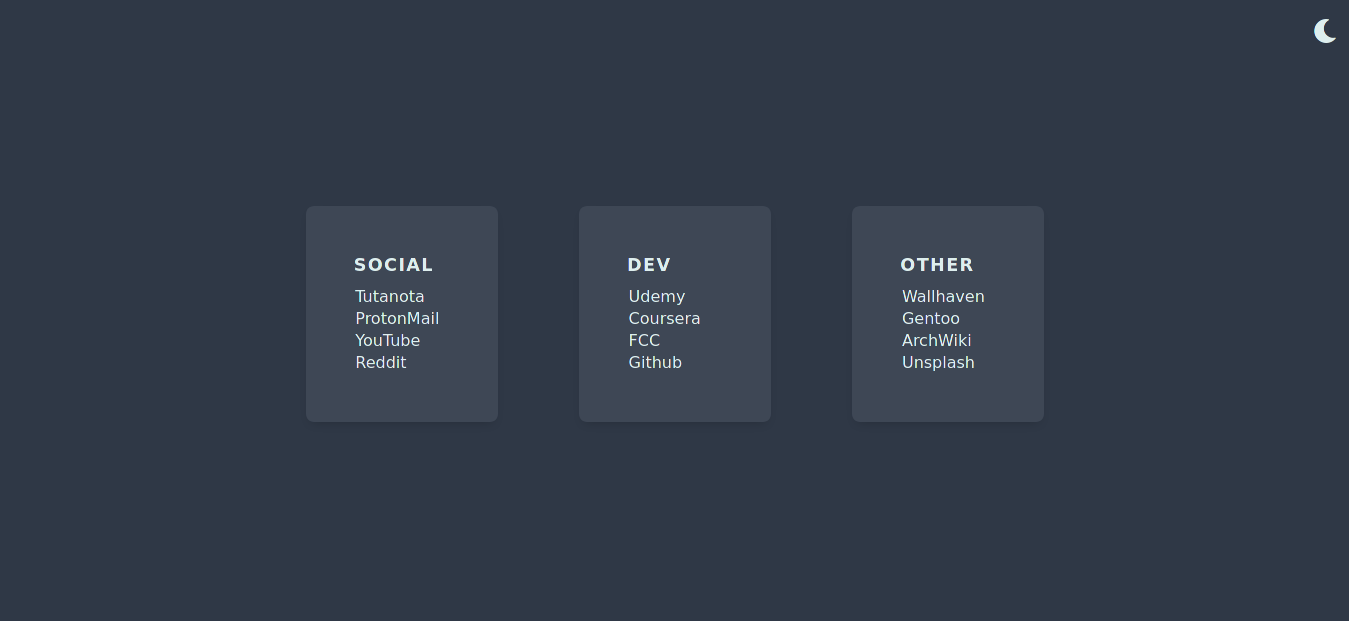
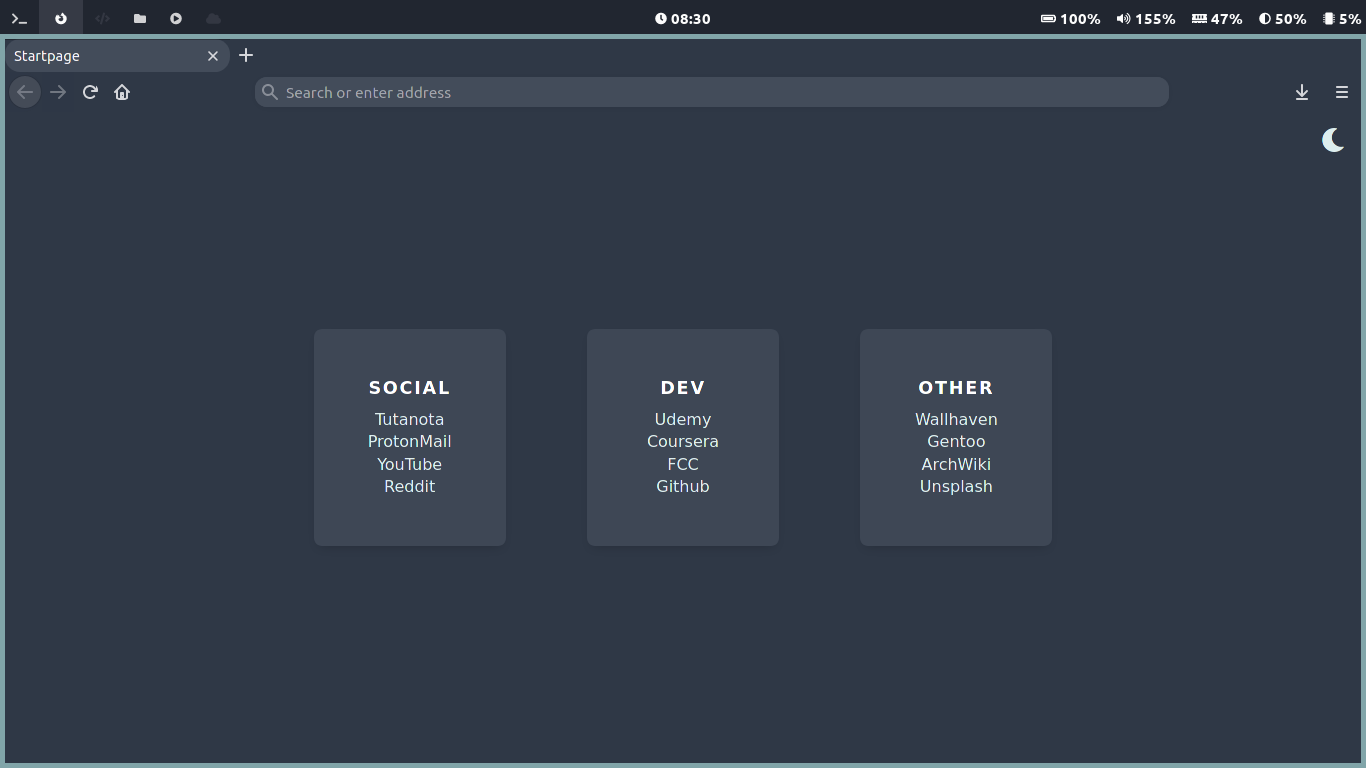
Update

diff --git a/index.html b/index.html
@@ -14,40 +14,26 @@
 	<body class="body-dark">
 		<div class="btn btn-theme"><i class="fas fa-moon"></i></div>
 		<main id="box">
-			<div class="container container-social">
-				<h2 class="container-header social-header">Social</h2>
-				<a class="social-link" href="https://mail.tutanota.com/login"
-					>Tutanota</a
-				>
-				<a class="social-link" href="https://www.protonmail.com"
-					>ProtonMail</a
-				>
-				<a class="social-link" href="https://www.youtube.com"
-					>YouTube</a
-				>
-				<a class="social-link" href="https://www.reddit.com">Reddit</a>
+			<div class="container social-container">
+				<h2>Social</h2>
+				<a href="https://mail.tutanota.com/login">Tutanota</a>
+				<a href="https://www.protonmail.com">ProtonMail</a>
+				<a href="https://www.youtube.com">YouTube</a>
+				<a href="https://www.reddit.com">Reddit</a>
 			</div>
-			<div class="container container-dev">
-				<h2 class="container-header dev-header">Dev</h2>
-				<a class="dev-link" href="https://www.udemy.com">Udemy</a>
-				<a class="dev-link" href="https://www.coursera.org">Coursera</a>
-				<a class="dev-link" href="https://www.freecodecamp.org/learn"
-					>FCC</a
-				>
-				<a class="dev-link" href="https://www.github.com">Github</a>
+			<div class="container dev-container">
+				<h2>Dev</h2>
+				<a href="https://www.udemy.com">Udemy</a>
+				<a href="https://www.coursera.org">Coursera</a>
+				<a href="https://www.freecodecamp.org/learn">FCC</a>
+				<a href="https://www.github.com">Github</a>
 			</div>
-			<div class="container container-other">
-				<h2 class="container-header other-header">Other</h2>
-				<a class="other-link" href="https://www.wallhaven.cc"
-					>Wallhaven</a
-				>
-				<a class="other-link" href="https://wiki.gentoo.org">Gentoo</a>
-				<a class="other-link" href="https://wiki.archlinux.org"
-					>ArchWiki</a
-				>
-				<a class="other-link" href="https://www.unsplash.com"
-					>Unsplash</a
-				>
+			<div class="container other-container">
+				<h2>Other</h2>
+				<a href="https://www.wallhaven.cc">Wallhaven</a>
+				<a href="https://wiki.gentoo.org">Gentoo</a>
+				<a href="https://wiki.archlinux.org">ArchWiki</a>
+				<a href="https://www.unsplash.com">Unsplash</a>
 			</div>
 		</main>
 		<script src="script.js"></script>

diff --git a/style.css b/style.css
@@ -1,10 +1,4 @@
 :root {
-	--bg-dark: #2f3846;
-	--bg-container-dark: #3e4755;
-	--fg-dark: #dee;
-	--bg-light: #ddd;
-	--bg-container-light: #eee;
-	--fg-light: #345;
 	--green: #70b791;
 	--magenta: #db8e9d;
 	--yellow: #c9c76b;
@@ -14,30 +8,28 @@
 * {
 	margin: 0;
 	padding: 0;
+	box-sizing: border-box;
 	transition: 0.2s ease-in-out;
 }
 
+body {
+	background-color: var(--bg);
+	color: var(--fg);
+	font-family: sans-serif;
+}
+
 .body-dark {
-	background-color: var(--bg-dark);
-	color: var(--fg-dark);
+	--bg: #2f3846;
+	--bg-alt: #3e4755;
+	--fg: #dee;
+	--fg-alt: #fff;
 }
 
 .body-light {
-	background-color: var(--bg-light);
-	color: var(--fg-light);
-}
-
-a {
-	text-decoration: none;
-	padding: 0.1em;
-}
-
-.body-dark a {
-	color: var(--fg-dark);
-}
-
-.body-light a {
-	color: var(--fg-light);
+	--bg: #ddd;
+	--bg-alt: #eee;
+	--fg: #444;
+	--fg-alt: #333;
 }
 
 .fas {
@@ -49,10 +41,10 @@ a {
 }
 
 .btn-theme {
-	cursor: pointer;
 	position: absolute;
 	right: 0;
 	margin: 1em;
+	cursor: pointer;
 }
 
 #box {
@@ -65,48 +57,50 @@ a {
 .container {
 	display: flex;
 	flex-direction: column;
-	width: 6em;
+	align-items: center;
+	width: 12em;
 	padding: 3em;
 	margin: 0 3%;
 	border-radius: 8px;
 	box-shadow: 0 5px 10px -5px rgba(0, 0, 0, 0.2);
+	background-color: var(--bg-alt);
 }
 
 .container:hover {
 	box-shadow: 0 5px 20px rgba(0, 0, 0, 0.2);
 }
 
-.body-dark .container {
-	background-color: var(--bg-container-dark);
-}
-
-.body-light .container {
-	background-color: var(--bg-container-light);
-}
-
-.container-header {
+.container h2 {
 	font-size: 1.1rem;
-	letter-spacing: 0.08em;
+	letter-spacing: 0.1em;
 	text-transform: uppercase;
-	padding-bottom: 0.5em;
+	margin-bottom: 0.5em;
 	cursor: pointer;
+	color: var(--fg-alt);
 }
 
-.social-link:hover {
+a {
+	line-height: 1.4;
+	text-decoration: none;
+	color: var(--fg);
+}
+
+.social-container a:hover {
 	color: var(--green);
 }
 
-.dev-link:hover {
+.dev-container a:hover {
 	color: var(--magenta);
 }
 
-.other-link:hover {
+.other-container a:hover {
 	color: var(--cyan);
 }
 
 @media (max-width: 620px) {
 	.container {
-		padding: 0.8em;
+		width: 100%;
+		padding: 0.5em;
 		margin: 0;
 		border-radius: 0;
 		box-shadow: none;
